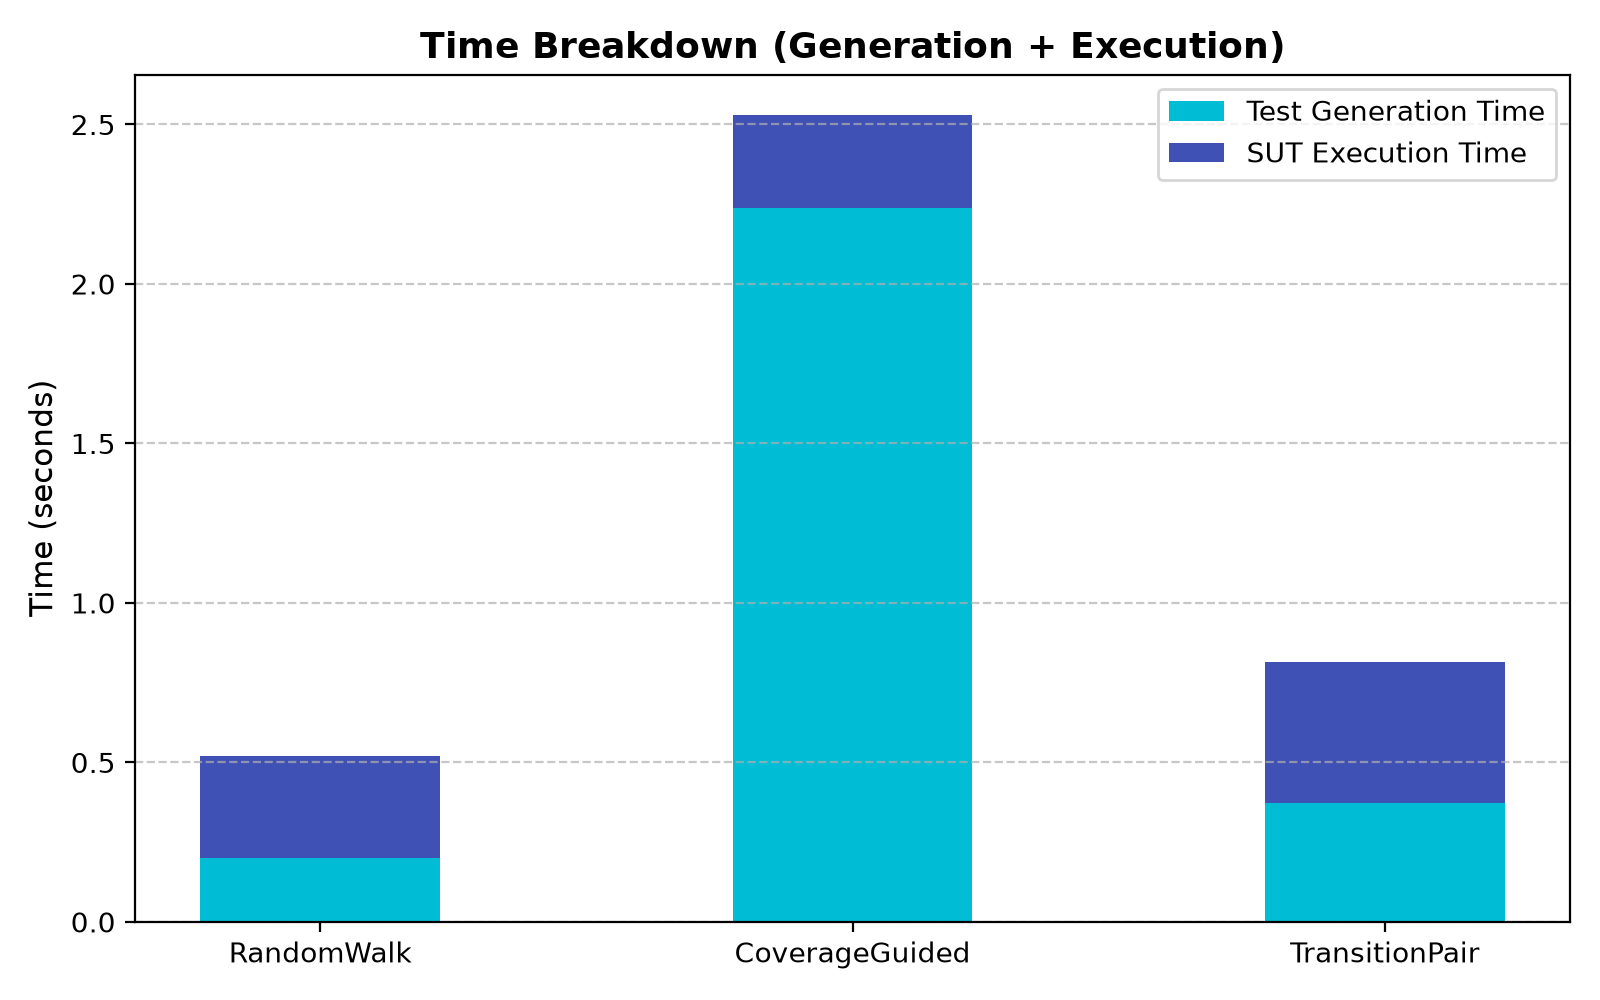
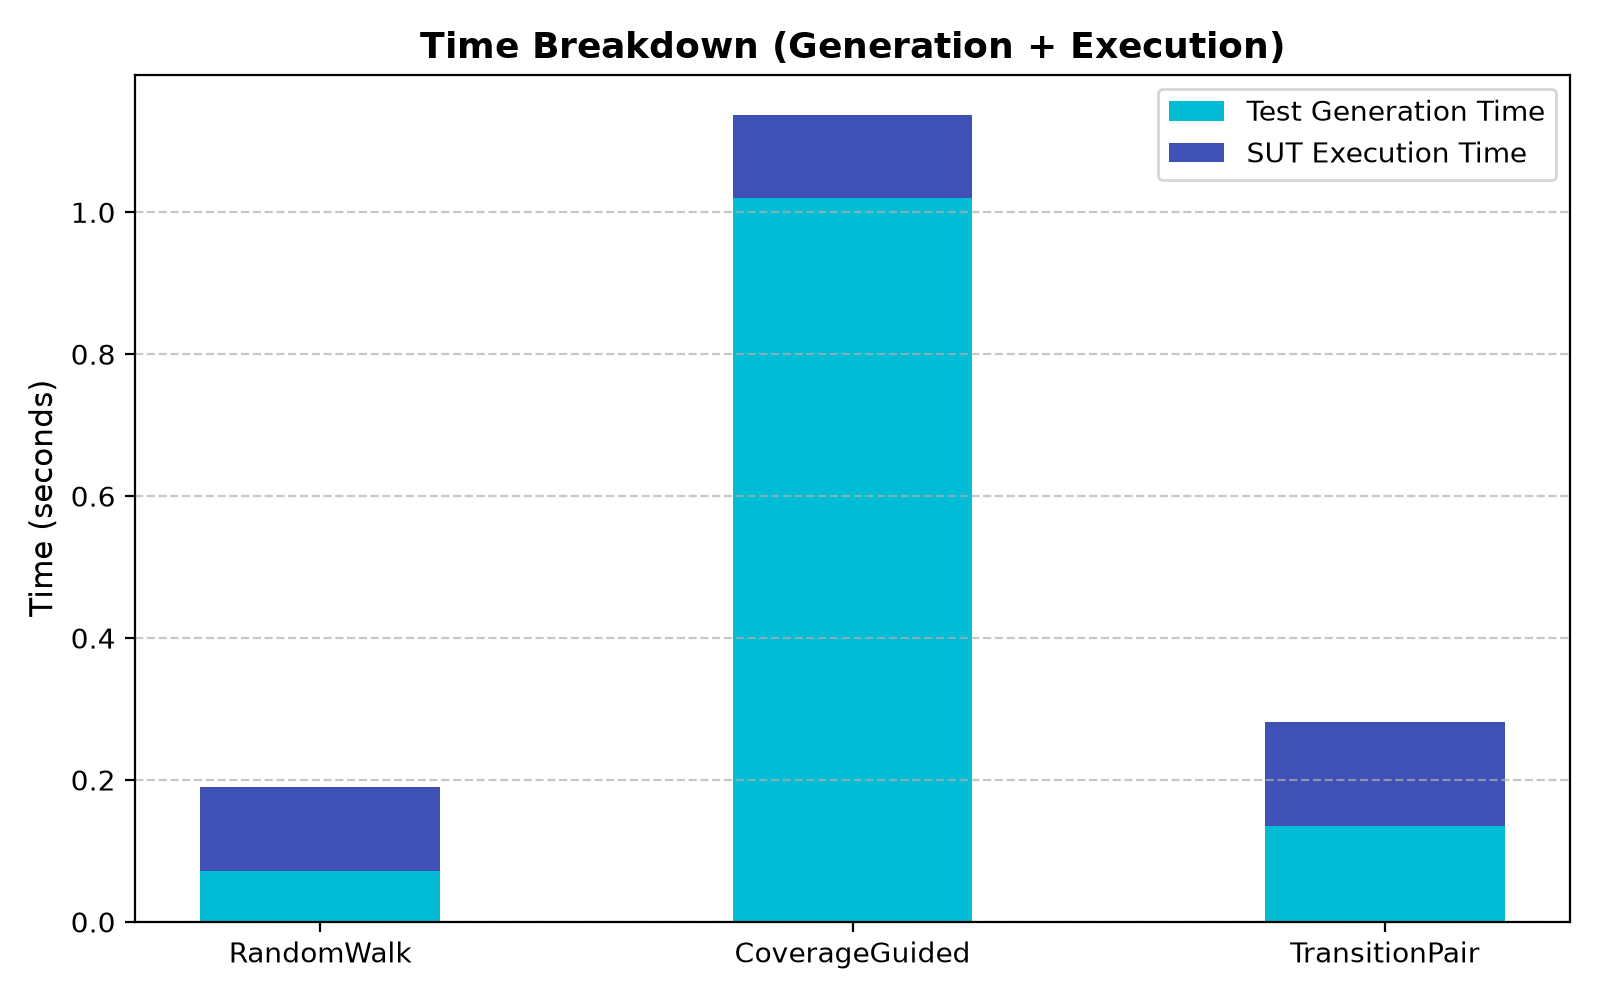
Embed user terminal screenshots of unit test execution and experimental evaluation in technical report

diff --git a/report.md b/report.md
@@ -288,11 +288,22 @@ During your individual viva, if the instructor introduces an unseen requirement:
   1. Add `EXPIRED = "EXPIRED"` to `State` enum in `locker/types.py`.
   2. In `locker/model.py`, update `EXPIRE` transition to enter `State.EXPIRED` instead of directly `AVAILABLE`.
 
-### 12.2 Screenshots & Terminal Outputs Placeholder
-*Take genuine terminal screenshots on your machine and insert here:*
-- `[INSERT_SCREENSHOT_UNIT_TESTS: python -m unittest discover -s tests -v]`
-- `[INSERT_SCREENSHOT_EXPERIMENTS: python experiments/run_experiments.py --sequences 500 --max-length 20 --seeds 101 202 303 404 505 --output-dir results]`
-- `[INSERT_SCREENSHOT_CHARTS: results/coverage_comparison.png]`
+### 12.2 Screenshots & Terminal Outputs
+Actual terminal outputs and generated charts from the test runs on the testing machine:
+
+#### 1. Full Unit & Multi-Oracle Test Suite Execution (41 Tests Passing)
+![Unit Tests Execution (41 tests passing)](docs/screenshots/unit_tests_run.png)
+
+#### 2. Controlled Experimental Evaluation (500 Sequences, 5 Seeds)
+![Controlled Experiments Execution (500 sequences, 5 seeds)](docs/screenshots/experiments_run.png)
+
+#### 3. Visual Charts Generated from Experimental Evaluation
+- **Coverage Comparison**:
+  ![Coverage Comparison Across Strategies](results/coverage_comparison.png)
+- **Mutation Score Comparison**:
+  ![Mutation Score Comparison](results/mutation_score_comparison.png)
+- **Execution Time Breakdown**:
+  ![Execution Time Breakdown](results/execution_time_comparison.png)
 
 ### 12.3 Demonstration Video Placeholder
 - Video Link / File Name: `[INSERT_DEMO_RECORDING_LINK_OR_FILENAME]`
